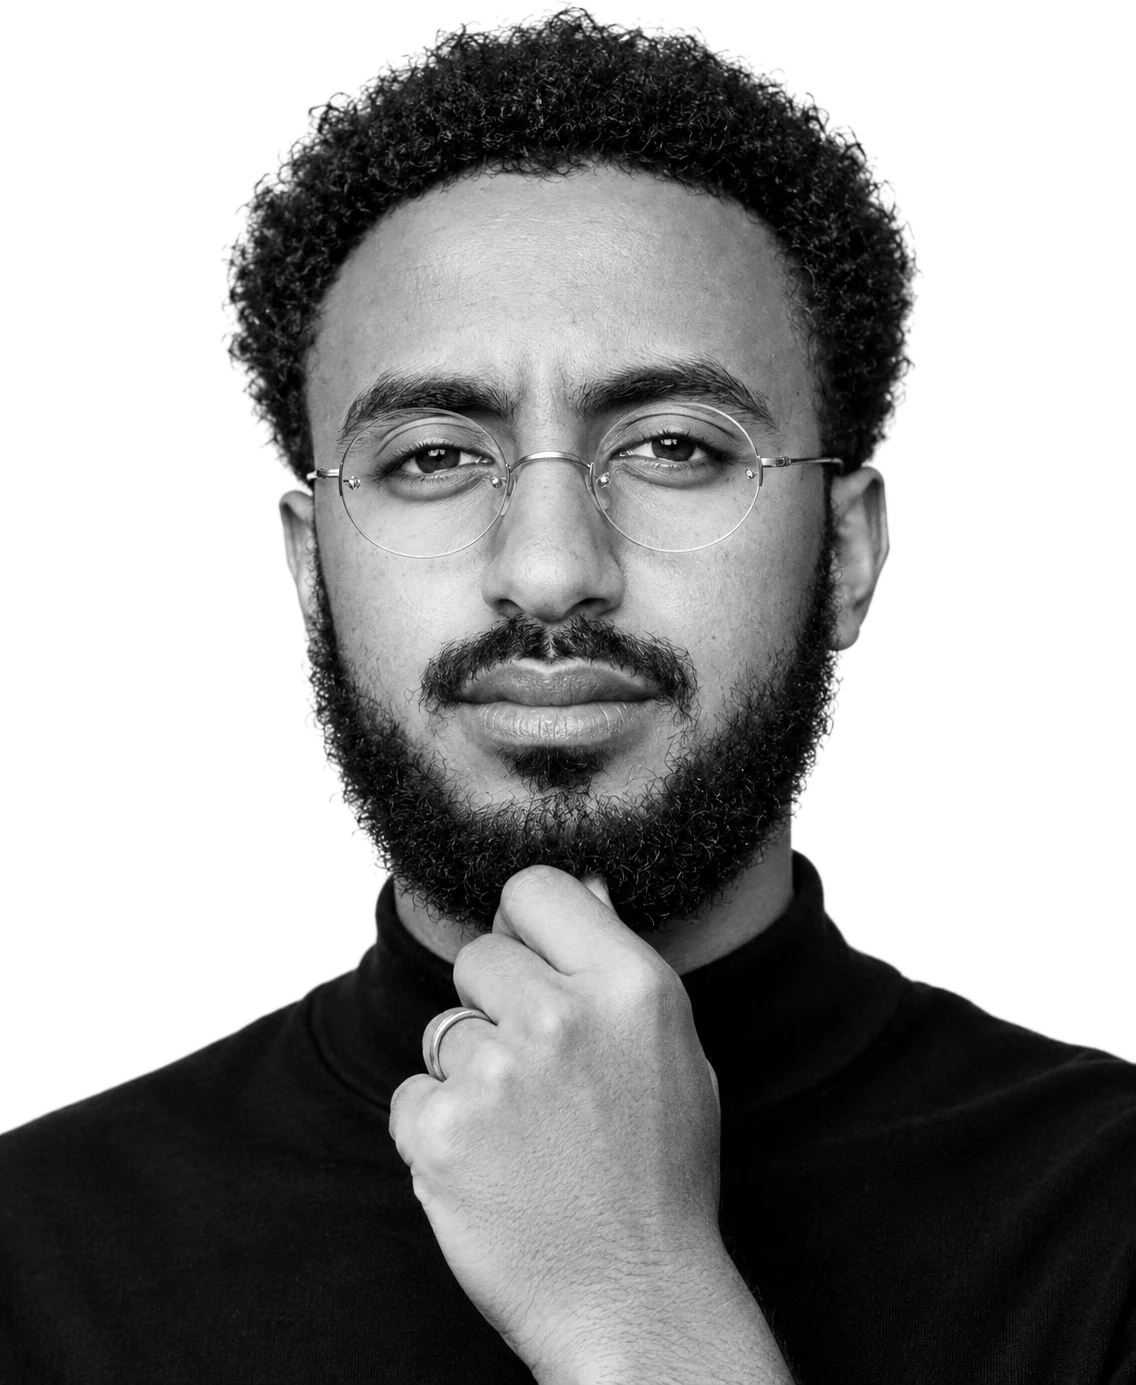
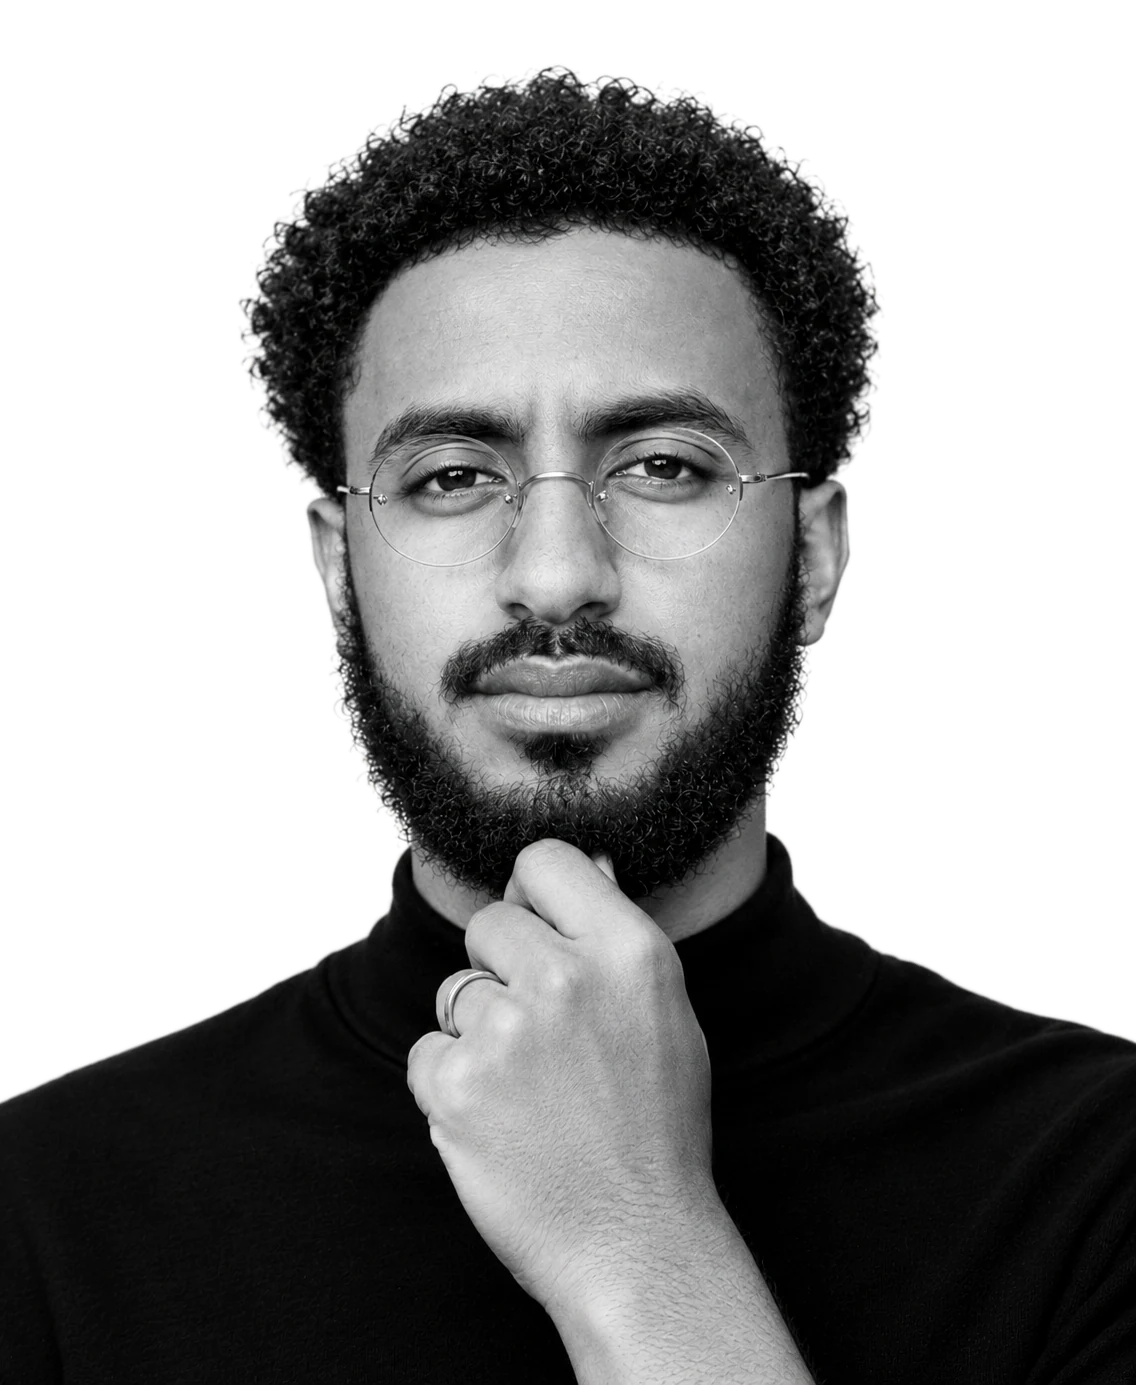
Update portrait handling in Collections component and adjust photo data
- Modified the Collections component to enhance image presentation with improved scaling and cropping for portraits.
- Updated the portrait data to use the studio version of the image and adjusted the aspect ratio for better display.
- Changed the backdrop color for the portrait to ensure consistency with the new design.

Changed region(s): [[0.0, 0.0, 0.8319, 1.0], [0.8319, 0.7141, 1.0, 0.7762]]

diff --git a/components/apps/photos/Collections.tsx b/components/apps/photos/Collections.tsx
@@ -43,7 +43,8 @@ export default function Collections({ width, frame, onAlbum, onLibrary }: Props)
           <Row {...ins}>
             <button type="button" onClick={() => onAlbum(people.id)} className="group flex w-[96px] flex-col items-center gap-[8px]">
               <span className="relative size-[96px] overflow-hidden rounded-full" style={{ background: portrait.backdrop }}>
-                <img src={portrait.src} alt="" loading="lazy" decoding="async" className="absolute top-[6px] left-1/2 w-[120%] max-w-none -translate-x-1/2 transition-transform duration-500 group-hover:scale-105" />
+                {/* His face, cropped from the studio portrait. */}
+                <img src={portrait.src} alt="" loading="lazy" decoding="async" className="absolute inset-0 h-full w-full origin-[50%_25%] scale-[1.32] object-cover object-top transition-transform duration-500 group-hover:scale-[1.4]" />
               </span>
               <span className="text-[13px] leading-[16px] font-semibold text-label">{people.title.split(" ")[0]}</span>
             </button>
@@ -80,7 +81,7 @@ export default function Collections({ width, frame, onAlbum, onLibrary }: Props)
             className="glass relative size-[40px] overflow-hidden rounded-full transition-[scale] duration-300 ease-ios active:scale-110"
             style={{ background: portrait.backdrop }}
           >
-            <img src={portrait.src} alt="" className="absolute top-[3px] left-1/2 w-[130%] max-w-none -translate-x-1/2" />
+            <img src={portrait.src} alt="" className="absolute inset-0 h-full w-full origin-[50%_25%] scale-[1.32] object-cover object-top" />
           </button>
         }
       />

diff --git a/components/apps/photos/data.ts b/components/apps/photos/data.ts
@@ -52,14 +52,15 @@ const photosOf = (p: Project): Photo[] =>
 
 export const portrait: Photo = {
   id: "portrait",
-  src: profile.portrait.source,
-  thumb: profile.portrait.source,
+  // The studio portrait, the Home Screen widget's: black and white on white.
+  src: profile.portrait.studio,
+  thumb: profile.portrait.studio,
   label: "Portrait",
   alt: `Portrait of ${profile.name}`,
-  ratio: 787 / 1100,
+  ratio: 1136 / 1385,
   project: null,
-  // The same warm light the Home Screen widget puts behind him.
-  backdrop: "radial-gradient(120% 90% at 30% 10%, #f0c9a6 0%, #c97b5b 38%, #5b3a4a 78%, #2d2233 100%)",
+  // Its own paper, for wherever the frame shows past the photo.
+  backdrop: "#ffffff",
 };
 
 const visible = projects.filter((p) => !p.confidential);
